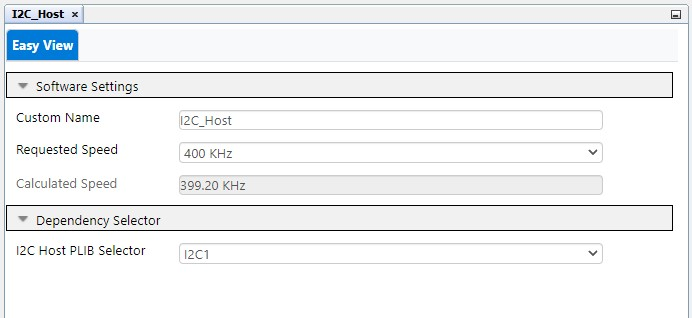
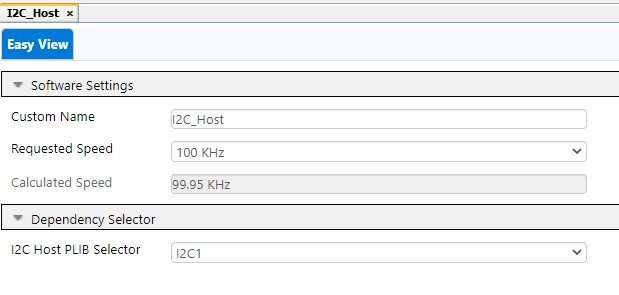
I2C speed set to 100 KHz

Changed region(s): [[0.0, 0.0, 1.0, 1.0], [0.9208, 0.8237, 0.9515, 0.8847]]

diff --git a/dspic33ck-curiosity-i2c-eeprom-demo.X/mcc_generated_files/i2c_host/src/i2c1.c b/dspic33ck-curiosity-i2c-eeprom-demo.X/mcc_generated_files/i2c_host/src/i2c1.c
@@ -443,10 +443,10 @@ static inline void I2C1_InterruptEnable(void)
 void I2C1_Initialize(void)
 {
     // initialize the hardware
-    // I2CBRG 17; 
-    I2C1BRG = 0x11;
-    // ACKEN disabled; STRICT disabled; STREN disabled; GCEN disabled; SMEN disabled; DISSLW enabled; I2CSIDL disabled; ACKDT Sends ACK; SCLREL Holds; RSEN disabled; A10M 7 Bit; PEN disabled; RCEN disabled; SEN disabled; I2CEN enabled; 
-    I2C1CONL = 0x8000;
+    // I2CBRG 77; 
+    I2C1BRG = 0x4D;
+    // ACKEN disabled; STRICT disabled; STREN disabled; GCEN disabled; SMEN disabled; DISSLW disabled; I2CSIDL disabled; ACKDT Sends ACK; SCLREL Holds; RSEN disabled; A10M 7 Bit; PEN disabled; RCEN disabled; SEN disabled; I2CEN enabled; 
+    I2C1CONL = 0x8200;
     // BCL disabled; P disabled; S disabled; I2COV disabled; IWCOL disabled; 
     I2C1STAT = 0x0;
     

diff --git a/README.md b/README.md
@@ -39,7 +39,8 @@ This project demonstrates the I2C communication on dsPIC33CK Curiosity board usi
 
 ## Operation
 
-- Demo code writes predefined 256 bytes of charecter in EEPROM which is 1 block size of 24C08 and reads back the same data.
+- Run Tera Term or any serial terminal and set the baud-rate to 9600, data bits as 8, stop bits as 1, parity to none and flow control to none
+- Demo code writes predefined 256 bytes of character in EEPROM which is 1 block size of 24C08 and reads back the same data.
 - The write data can be changed by modifying `clientWriteData` in main.c
 
 ## MCC settings for reference
